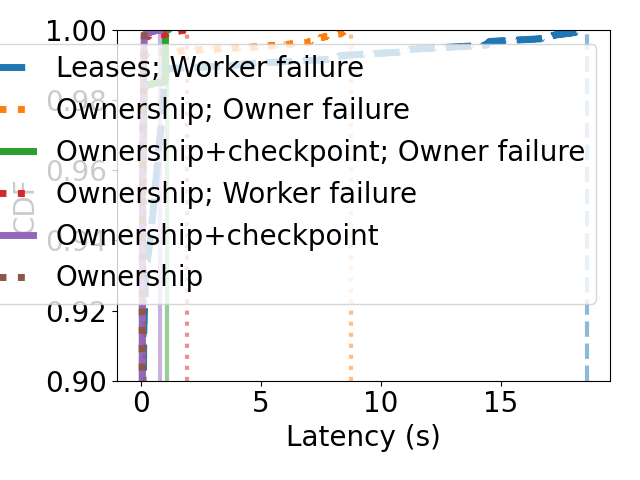
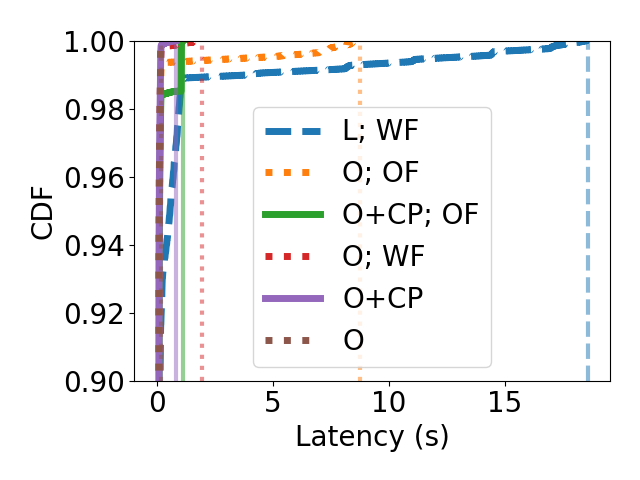
readme

diff --git a/video-processing/plot.py b/video-processing/plot.py
@@ -67,24 +67,14 @@ if __name__ == '__main__':
         plt.figure(figsize=(7.5, 3))
 
     if args.failure:
-        if args.final:
-            curves = [
-                (leases_failure, "L; WF", 'dashed'),
-                (ownership_owner_failure, "O; OF", 'dotted'),
-                (ownership_owner_checkpoint_failure, "O+CP; OF", 'solid'),
-                (ownership_failure, "O; WF", 'dotted'),
-                (ownership_checkpoint, "O+CP", 'solid'),
-                (ownership, "O", 'dotted'),
-            ]
-        else:
-            curves = [
-                (leases_failure, "Leases; Worker failure", 'dashed'),
-                (ownership_owner_failure, "Ownership; Owner failure", 'dotted'),
-                (ownership_owner_checkpoint_failure, "Ownership+checkpoint; Owner failure", 'solid'),
-                (ownership_failure, "Ownership; Worker failure", 'dotted'),
-                (ownership_checkpoint, "Ownership+checkpoint", 'solid'),
-                (ownership, "Ownership", 'dotted'),
-            ]
+        curves = [
+            (leases_failure, "L; WF", 'dashed'),
+            (ownership_owner_failure, "O; OF", 'dotted'),
+            (ownership_owner_checkpoint_failure, "O+CP; OF", 'solid'),
+            (ownership_failure, "O; WF", 'dotted'),
+            (ownership_checkpoint, "O+CP", 'solid'),
+            (ownership, "O", 'dotted'),
+        ]
         legend_order = [
             0, 3, 5, 2, 4, 1,
         ]
@@ -107,7 +97,6 @@ if __name__ == '__main__':
         plt.ylabel("CDF")
         
 
-    plt.tight_layout()
     if args.zoom:
         plt.ylim(args.zoom / 100, 1)
     else:
@@ -128,6 +117,7 @@ if __name__ == '__main__':
     else:
         plt.legend()
 
+    plt.tight_layout()
     if args.save:
         if args.final:
             ext = "pdf"

diff --git a/video-processing/README.md b/video-processing/README.md
@@ -43,3 +43,12 @@ You can also plot the failure results. Here is an example, zoomed in on the 90th
 python plot.py --num-nodes 60 --failure --zoom 90
 ```
 ![latency-failure](latency-failure-60.png)
+
+Here, the legend is:
+
+- L; WF=Leases; Worker failure
+- O; OF=Ownership; Owner failure
+- O+CP; OF=Ownership+checkpoint; Owner failure
+- O; WF=Ownership; Worker failure
+- O+CP=Ownership+checkpoint
+- O=Ownership
